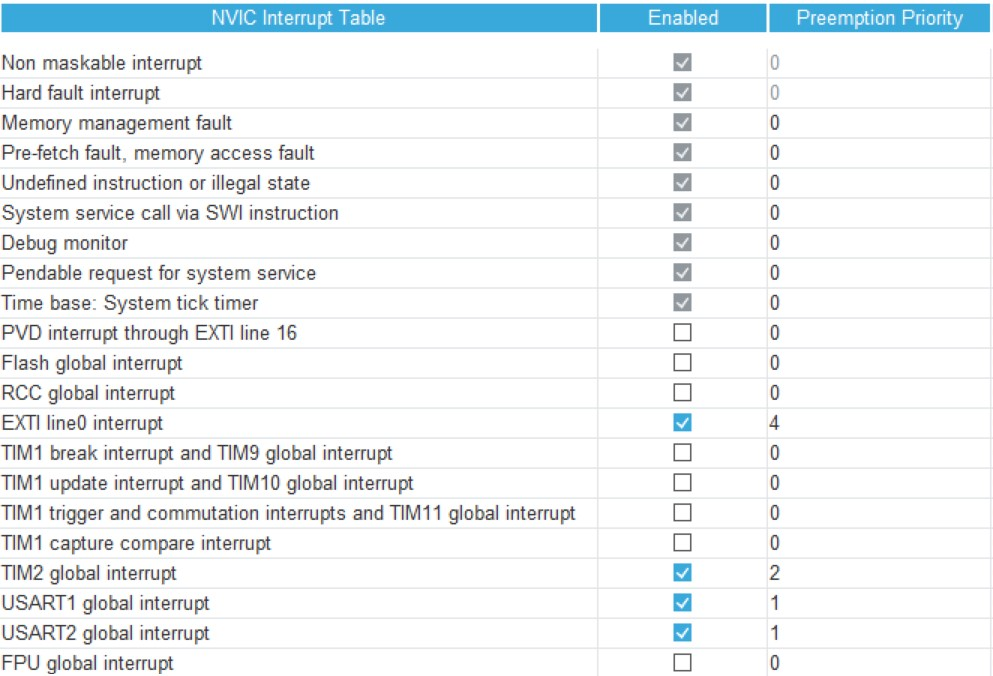
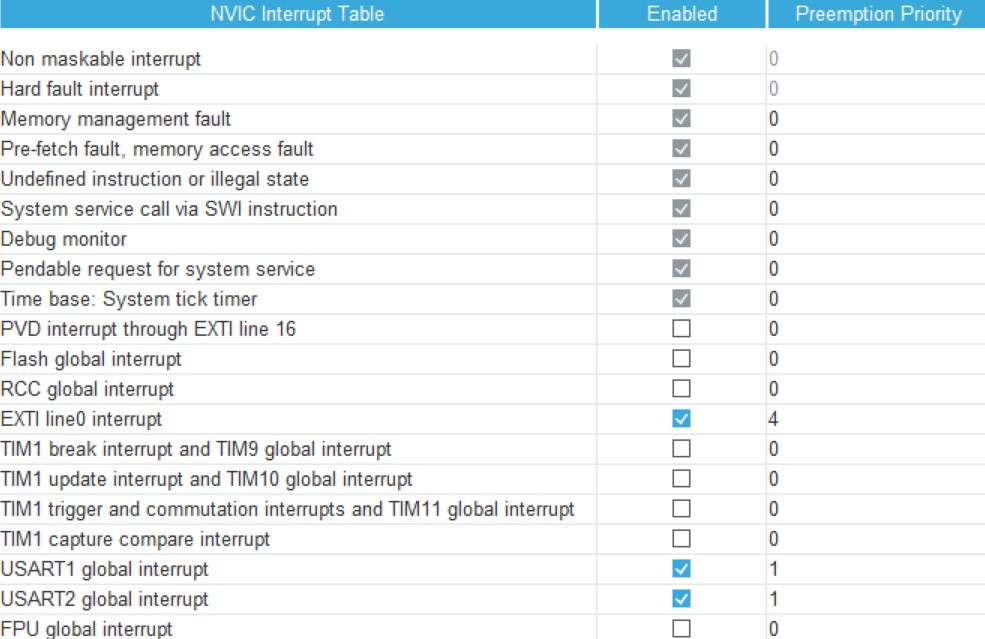
del tim2

Changed region(s): [[0.0, 0.0, 1.0, 1.0]]

diff --git a/Core/Src/main.c b/Core/Src/main.c
@@ -83,7 +83,6 @@
 
 /* Private variables ---------------------------------------------------------*/
 TIM_HandleTypeDef htim1;
-TIM_HandleTypeDef htim2;
 
 UART_HandleTypeDef huart1;
 UART_HandleTypeDef huart2;
@@ -129,7 +128,6 @@ static int16_t pmid = 0, pgnd = 0, ymid = 0, prevp = 0;
 void SystemClock_Config(void);
 static void MX_GPIO_Init(void);
 static void MX_TIM1_Init(void);
-static void MX_TIM2_Init(void);
 static void MX_USART1_UART_Init(void);
 static void MX_USART2_UART_Init(void);
 /* USER CODE BEGIN PFP */
@@ -172,7 +170,6 @@ int main(void)
   /* Initialize all configured peripherals */
   MX_GPIO_Init();
   MX_TIM1_Init();
-  MX_TIM2_Init();
   MX_USART1_UART_Init();
   MX_USART2_UART_Init();
   /* USER CODE BEGIN 2 */
@@ -325,51 +322,6 @@ static void MX_TIM1_Init(void)
 
   /* USER CODE END TIM1_Init 2 */
   HAL_TIM_MspPostInit(&htim1);
-
-}
-
-/**
-  * @brief TIM2 Initialization Function
-  * @param None
-  * @retval None
-  */
-static void MX_TIM2_Init(void)
-{
-
-  /* USER CODE BEGIN TIM2_Init 0 */
-
-  /* USER CODE END TIM2_Init 0 */
-
-  TIM_ClockConfigTypeDef sClockSourceConfig = {0};
-  TIM_MasterConfigTypeDef sMasterConfig = {0};
-
-  /* USER CODE BEGIN TIM2_Init 1 */
-
-  /* USER CODE END TIM2_Init 1 */
-  htim2.Instance = TIM2;
-  htim2.Init.Prescaler = 99;
-  htim2.Init.CounterMode = TIM_COUNTERMODE_UP;
-  htim2.Init.Period = 7999;
-  htim2.Init.ClockDivision = TIM_CLOCKDIVISION_DIV4;
-  htim2.Init.AutoReloadPreload = TIM_AUTORELOAD_PRELOAD_DISABLE;
-  if (HAL_TIM_Base_Init(&htim2) != HAL_OK)
-  {
-    Error_Handler();
-  }
-  sClockSourceConfig.ClockSource = TIM_CLOCKSOURCE_INTERNAL;
-  if (HAL_TIM_ConfigClockSource(&htim2, &sClockSourceConfig) != HAL_OK)
-  {
-    Error_Handler();
-  }
-  sMasterConfig.MasterOutputTrigger = TIM_TRGO_RESET;
-  sMasterConfig.MasterSlaveMode = TIM_MASTERSLAVEMODE_DISABLE;
-  if (HAL_TIMEx_MasterConfigSynchronization(&htim2, &sMasterConfig) != HAL_OK)
-  {
-    Error_Handler();
-  }
-  /* USER CODE BEGIN TIM2_Init 2 */
-
-  /* USER CODE END TIM2_Init 2 */
 
 }
 

diff --git a/Core/Src/stm32f4xx_hal_msp.c b/Core/Src/stm32f4xx_hal_msp.c
@@ -98,20 +98,6 @@ void HAL_TIM_Base_MspInit(TIM_HandleTypeDef* htim_base)
 
   /* USER CODE END TIM1_MspInit 1 */
   }
-  else if(htim_base->Instance==TIM2)
-  {
-  /* USER CODE BEGIN TIM2_MspInit 0 */
-
-  /* USER CODE END TIM2_MspInit 0 */
-    /* Peripheral clock enable */
-    __HAL_RCC_TIM2_CLK_ENABLE();
-    /* TIM2 interrupt Init */
-    HAL_NVIC_SetPriority(TIM2_IRQn, 2, 0);
-    HAL_NVIC_EnableIRQ(TIM2_IRQn);
-  /* USER CODE BEGIN TIM2_MspInit 1 */
-
-  /* USER CODE END TIM2_MspInit 1 */
-  }
 
 }
 
@@ -160,20 +146,6 @@ void HAL_TIM_Base_MspDeInit(TIM_HandleTypeDef* htim_base)
   /* USER CODE BEGIN TIM1_MspDeInit 1 */
 
   /* USER CODE END TIM1_MspDeInit 1 */
-  }
-  else if(htim_base->Instance==TIM2)
-  {
-  /* USER CODE BEGIN TIM2_MspDeInit 0 */
-
-  /* USER CODE END TIM2_MspDeInit 0 */
-    /* Peripheral clock disable */
-    __HAL_RCC_TIM2_CLK_DISABLE();
-
-    /* TIM2 interrupt DeInit */
-    HAL_NVIC_DisableIRQ(TIM2_IRQn);
-  /* USER CODE BEGIN TIM2_MspDeInit 1 */
-
-  /* USER CODE END TIM2_MspDeInit 1 */
   }
 
 }

diff --git a/Core/Src/stm32f4xx_it.c b/Core/Src/stm32f4xx_it.c
@@ -56,7 +56,6 @@
 /* USER CODE END 0 */
 
 /* External variables --------------------------------------------------------*/
-extern TIM_HandleTypeDef htim2;
 extern UART_HandleTypeDef huart1;
 extern UART_HandleTypeDef huart2;
 /* USER CODE BEGIN EV */
@@ -222,20 +221,6 @@ void EXTI0_IRQHandler(void)
   /* USER CODE BEGIN EXTI0_IRQn 1 */
 
   /* USER CODE END EXTI0_IRQn 1 */
-}
-
-/**
-  * @brief This function handles TIM2 global interrupt.
-  */
-void TIM2_IRQHandler(void)
-{
-  /* USER CODE BEGIN TIM2_IRQn 0 */
-
-  /* USER CODE END TIM2_IRQn 0 */
-  HAL_TIM_IRQHandler(&htim2);
-  /* USER CODE BEGIN TIM2_IRQn 1 */
-
-  /* USER CODE END TIM2_IRQn 1 */
 }
 
 /**

diff --git a/Core/Inc/stm32f4xx_it.h b/Core/Inc/stm32f4xx_it.h
@@ -57,7 +57,6 @@ void DebugMon_Handler(void);
 void PendSV_Handler(void);
 void SysTick_Handler(void);
 void EXTI0_IRQHandler(void);
-void TIM2_IRQHandler(void);
 void USART1_IRQHandler(void);
 void USART2_IRQHandler(void);
 /* USER CODE BEGIN EFP */
